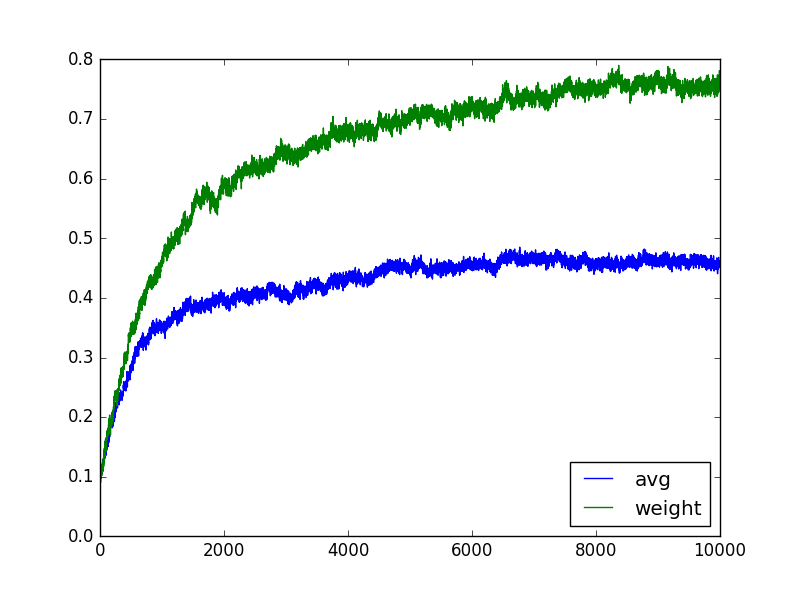
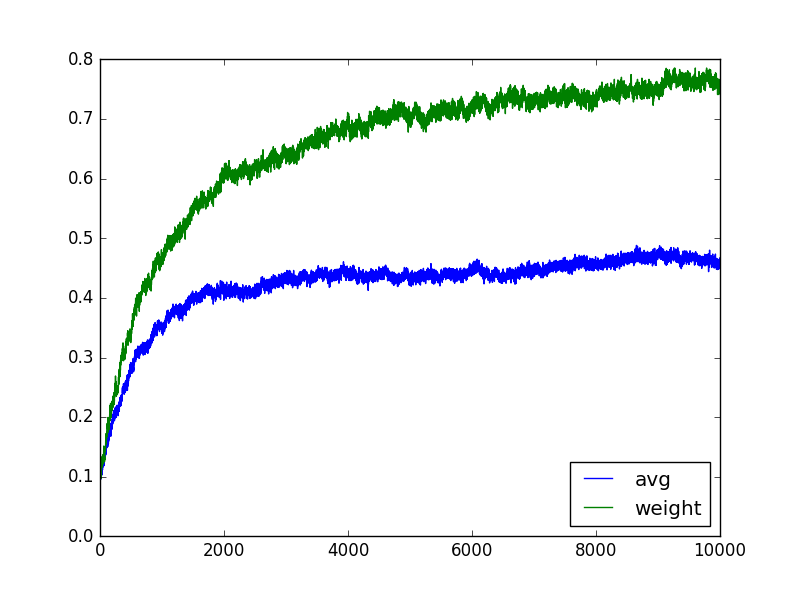
更新代码部分

Changed region(s): [[0.125, 0.3926, 0.9062, 0.755], [0.2188, 0.1208, 0.9062, 0.3926]]

diff --git a/codes/2_Multi_armed_Bandits/testbed.py b/codes/2_Multi_armed_Bandits/testbed.py
@@ -6,25 +6,28 @@ from bandit import Bandit
 import numpy as np
 import matplotlib.pyplot as plt
 
-if __name__ == "__main__":
-    k = 10 #10 armed
-    nb_bandits = 2000
-    epochs = 1000 #每个bandit实验1000次
+def experiment_1(k, nb_bandits, epochs, epsilons, step=None, UCB=False):
+    c = 2
 
-    epsilons = [0.0, 0.01, 0.1, 0.5, 1, 10] #10表示groundtruth
-    #epsilons = [0.1, 10]
     bd = [Bandit(k) for _ in range(nb_bandits)]
-
-    values = np.zeros(shape=(nb_bandits, k), dtype=np.float32) #记录当前每个action的估值
-    counts = np.zeros(shape=(nb_bandits, k), dtype=np.float32) #记录每个action被选择了多少次
-
-
     #记录画图参数
     #plt.axis([0, epochs+10, 0, 5])
     #plt.ion()
     rewards = []
     optimals = []
     for epsilon in epsilons:
+        if epsilon < 0:
+            values = np.zeros(shape=(nb_bandits, k), dtype=np.float32) #记录当前每个action的估值
+            UCB = True
+        elif epsilon <=0.00001:
+            values = np.ones(shape=(nb_bandits, k), dtype=np.float32) #记录当前每个action的估值
+            values *= 5
+            UCB = False
+        else:
+            values = np.zeros(shape=(nb_bandits, k), dtype=np.float32) #记录当前每个action的估值
+            UCB = False
+        counts = np.zeros(shape=(nb_bandits, k), dtype=np.float32) #记录每个action被选择了多少次
+
         print("Epsilon: ", epsilon)
         record_rewards = []
         record_actions = []
@@ -32,7 +35,10 @@ if __name__ == "__main__":
             total_rewards = np.zeros(nb_bandits) #记录每个老虎机的总rewards
             count_opitmal = np.zeros(nb_bandits) #记录每个老虎机最优action被选择的次数
             for i in range(nb_bandits):
-                if epsilon > 1:
+                if UCB is True:
+                    action = np.argmax(values[i] + c * np.sqrt(np.log(epoch+1) / (counts[i]+0.0000001)))
+
+                elif epsilon > 1:
                     #作弊，直接选择最优动作
                     action = bd[i].get_optimal_action()
                 elif np.random.rand() <= epsilon:
@@ -48,7 +54,11 @@ if __name__ == "__main__":
 
                 #updates
                 counts[i][action] += 1
-                values[i][action] += (reward - values[i][action]) / counts[i][action]
+                if step is None:
+                    values[i][action] += (reward - values[i][action]) / counts[i][action]
+                else:
+                    values[i][action] += (reward - values[i][action]) * step #固定步长
+
 
             #此时所有bandit都更新了一遍了
             mean_rewards= np.mean(total_rewards)
@@ -78,3 +88,101 @@ if __name__ == "__main__":
         lines[i], = plt.plot(range(epochs), optimals[i], label=str(labels[i]))
     plt.legend(handles=list(lines.values()), loc=4)
     plt.show()
+
+def experiment2(k, nb_bandits, epochs):
+
+
+    epsilon = 0.1
+
+    alpha = 0.1 #固定步长
+
+    rewards = []
+    optimals = []
+
+    methods =["avg", "weight"]
+    for method in methods:
+        bd = [Bandit(k, stationary=False) for _ in range(nb_bandits)]
+        values = np.zeros(shape=(nb_bandits, k), dtype=np.float32) #记录当前每个action的估值
+        counts = np.zeros(shape=(nb_bandits, k), dtype=np.float32) #记录每个action被选择了多少次
+        #print("Epsilon: ", epsilon)
+        print("Method: ", method)
+        record_rewards = []
+        record_actions = []
+        for epoch in range(epochs):
+            total_rewards = np.zeros(nb_bandits) #记录每个老虎机的总rewards
+            count_opitmal = np.zeros(nb_bandits) #记录每个老虎机最优action被选择的次数
+            for i in range(nb_bandits):
+                if epsilon > 1:
+                    #作弊，直接选择最优动作
+                    action = bd[i].get_optimal_action()
+                elif np.random.rand() <= epsilon:
+                    #randomly selected
+                    action = np.random.randint(0, k)
+                else:
+                    action = np.argmax(values[i])
+
+                reward = bd[i].step(action)
+
+                total_rewards[i] += reward
+                count_opitmal[i] += 1 if action == bd[i].get_optimal_action() else 0
+
+                #updates
+                counts[i][action] += 1
+                if method=="avg":
+                    values[i][action] += (reward - values[i][action]) / counts[i][action]
+                else:
+                    values[i][action] += alpha * (reward - values[i][action])
+
+            #此时所有bandit都更新了一遍了
+            mean_rewards= np.mean(total_rewards)
+            record_rewards.append(mean_rewards)
+            record_actions.append(np.mean(count_opitmal))
+            #实时画图
+            """
+            plt.scatter(epoch, mean_rewards, marker=".")
+            plt.pause(0.005)
+            """
+
+        """
+        while True:
+            plt.pause(0.05)
+        """
+        rewards.append(record_rewards)
+        optimals.append(record_actions)
+
+    lines = {}
+    labels = [i for i in methods]
+    for i in range(len(rewards)):
+        lines[i], = plt.plot(range(epochs), rewards[i], label=str(labels[i]))
+    plt.legend(handles=list(lines.values()), loc=4)
+    plt.show()
+
+    for i in range(len(optimals)):
+        lines[i], = plt.plot(range(epochs), optimals[i], label=str(labels[i]))
+    plt.legend(handles=list(lines.values()), loc=4)
+    plt.show()
+
+def run_1():
+    k = 10 #10 armed
+    nb_bandits = 2000
+    epochs = 1000 #每个bandit实验1000次
+
+    #epsilons = [0.0, 0.01, 0.1, 0.5, 1, 10] #10表示groundtruth
+    #epsilons = [0.0, 0.1, 10]
+    epsilons = [-1.0, 0.1, 10]
+
+
+    #experiment_1(k, nb_bandits, epochs, epsilons, step=0.1)
+    experiment_1(k, nb_bandits, epochs, epsilons)
+
+
+def run_2():
+    k = 10
+    nb_bandits = 2000
+    epochs = 10000
+
+
+    experiment2(k, nb_bandits, epochs)
+
+if __name__ == "__main__":
+    run_1()

diff --git a/codes/2_Multi_armed_Bandits/bandit.py b/codes/2_Multi_armed_Bandits/bandit.py
@@ -2,15 +2,21 @@
 import numpy as np
 
 class Bandit(object):
-    def __init__(self, k=10):
+    def __init__(self, k=10, stationary=True):
         self.k = k
-        self.values = list(np.random.randn(self.k))
-        self.optimal = np.argmax(self.values)
+        self.stationary = stationary
+        if self.stationary:
+            self.values = list(np.random.randn(self.k))
+        else:
+            self.values = list(np.zeros(self.k)) #初始化为0
 
     def step(self, action):
         reward = np.random.randn() + self.values[action]
+
+        if not self.stationary:
+            self.values = list(np.array(self.values) + np.random.randn(self.k) * 0.01)
         return reward
 
     def get_optimal_action(self):
-        return self.optimal
+        return np.argmax(self.values)
 
